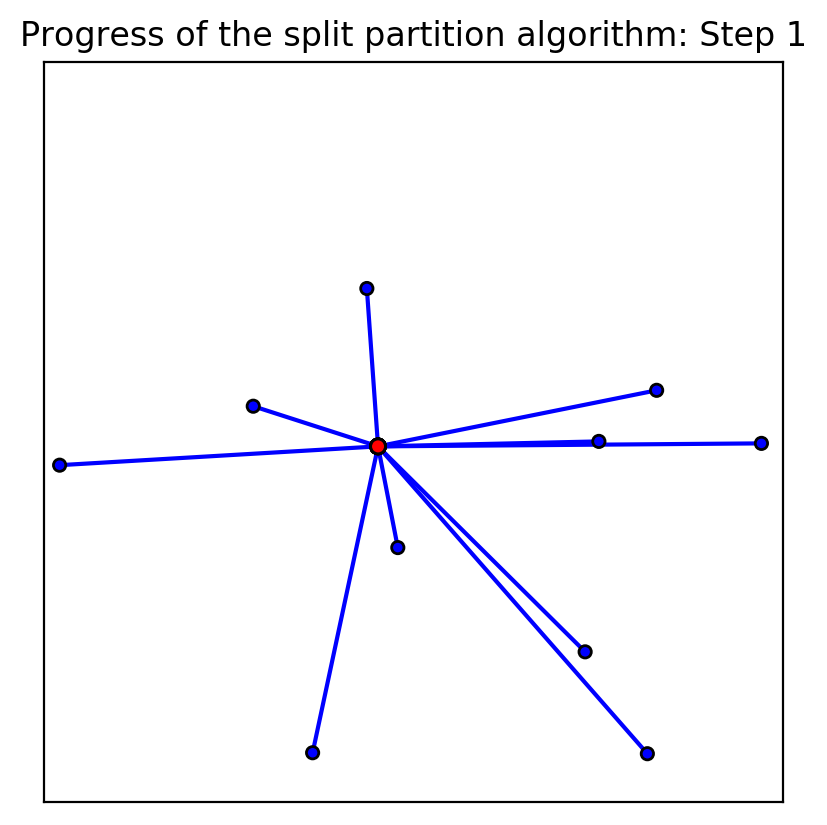
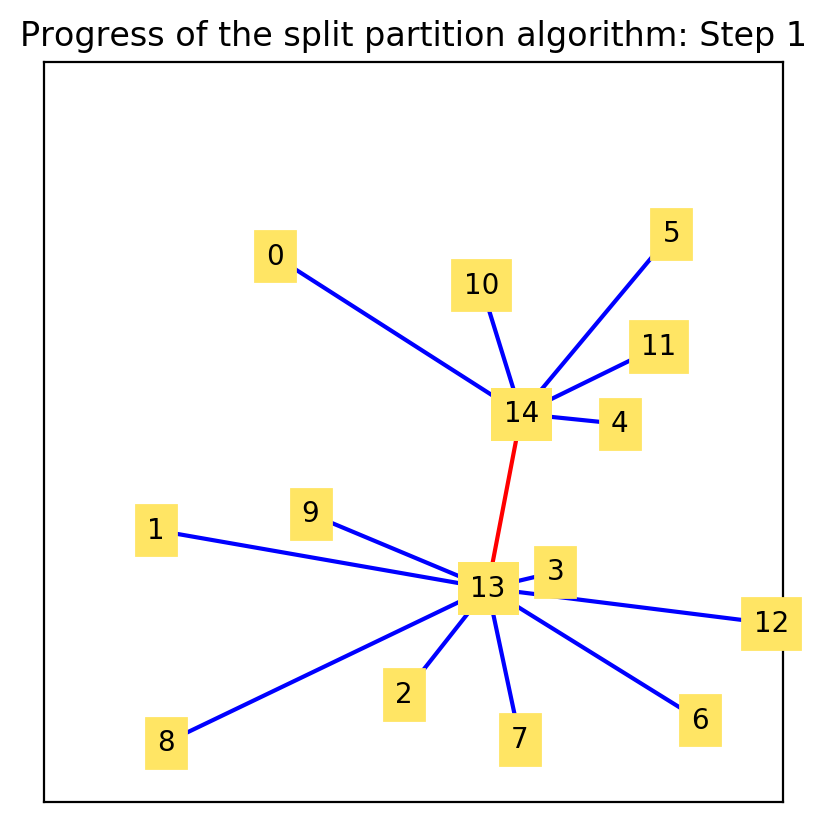
completed buggy implementation of split partition

diff --git a/src/lib/problem_one_horse_multiple_flies.py b/src/lib/problem_one_horse_multiple_flies.py
@@ -290,6 +290,7 @@ def algo_split_partition(sites, inithorseposn, phi, number_of_flies,\
     def same_side_on_line_as_point(line, refpt, querypt):
         """If a point is in one of the open half-planes and the other is 
            on the line, they are counted to be on the same side of the line """
+
         m, c = line
         [x0,y0], [x1,y1] = refpt, querypt
 
@@ -299,24 +300,21 @@ def algo_split_partition(sites, inithorseposn, phi, number_of_flies,\
               # half-planes determined by the line
             return False
 
-    def split_points_with_line( leafpts, spinept, line ):
+    def split_points_with_line( leafpts_info, spinept, line ):
         """ For a given bunch of points (the leafpts) and a reference point
             split the leafpoints into two sets. The first set returned consists 
             of points lies on the same side as that of the spinept. """
-        
-        spinept    = np.asarray(spinept)
-        leafpts    = map(np.asarray, leafpts)
-        ptsA, ptsB = [ ] , [ ] 
-        for pt in leafpts:
+        idxA, idxB     = [ ] , [ ] 
+        for r, g, pt in leafpts_info:
             if same_side_on_line_as_point(line, spinept, pt):
-                ptsA.append(pt)
+                idxA.append( (r,g)  )
             else:
-                ptsB.append(pt)
-        return ptsA, ptsB
+                idxB.append( (r,g) )
+        return idxA, idxB
+
 
     def get_center(points, branchpt, branchpt_weight):
         """ Get center of mass or fermat-weber center """
-
         assert(branchpt_weight > 0.0)
         points             = map(np.asarray, points)
         branchpt           = np.asarray(branchpt)
@@ -332,6 +330,16 @@ def algo_split_partition(sites, inithorseposn, phi, number_of_flies,\
         yc = yc/len(newpoints)
         return np.asarray([xc,yc])
  
+    def leaf_degree(G, nidx):
+        nbrs       = G[nidx]
+        leafdegree = 0
+        for i in nbrs:
+            if G.nodes[i]['type']  == 'leaf':
+               leafdegree += 1
+        return leaf_degree
+
+
+
     def draw_graph(G,itercounter):
         """ Draw the state of the split partition graph """
         fig, ax =  plt.subplots()
@@ -358,24 +366,23 @@ def algo_split_partition(sites, inithorseposn, phi, number_of_flies,\
             # Render node u
             #----------------    
             if G.nodes[u]['type'] == 'spine':
-                ax.add_patch(mpl.patches.Circle((px,py), radius=1.0/100, 
-                                          facecolor='red', edgecolor='black',zorder=2))
+                ax.add_patch(mpl.patches.Circle((px,py), radius=1.0/100, facecolor='red', edgecolor='black',zorder=2))
+                ax.text(px, py, str(u), horizontalalignment='center', verticalalignment='center', bbox=dict(facecolor='#ffe564', edgecolor = '#ffe564', alpha=1.0), zorder=3) 
             else :
-                ax.add_patch(mpl.patches.Circle((px,py), radius=1.0/120, 
-                                          facecolor='blue', edgecolor='black',zorder=2))
+                ax.add_patch(mpl.patches.Circle((px,py), radius=1.0/120, facecolor='blue', edgecolor='black',zorder=2))
+                ax.text(px, py, str(u), horizontalalignment='center', verticalalignment='center' , bbox=dict(facecolor='#ffe564',  edgecolor = '#ffe564', alpha=1.0), zorder=3) 
             #----------------    
             # Render node v
             #----------------    
             if G.nodes[v]['type'] == 'spine':
-                ax.add_patch(mpl.patches.Circle((qx,qy), radius=1.0/100, 
-                                          facecolor='red', edgecolor='black',zorder=2))
+                ax.add_patch(mpl.patches.Circle((qx,qy), radius=1.0/100, facecolor='red', edgecolor='black',zorder=2))
+                ax.text(qx, qy, str(v), horizontalalignment='center', verticalalignment='center', bbox=dict(facecolor='#ffe564',  edgecolor = '#ffe564',alpha=1.0), zorder=3)
             else :
-                ax.add_patch(mpl.patches.Circle((qx,qy), radius=1.0/120, 
-                                          facecolor='blue', edgecolor='black',zorder=2))
+                ax.add_patch(mpl.patches.Circle((qx,qy), radius=1.0/120, facecolor='blue', edgecolor='black',zorder=2))
+                ax.text(qx, qy, str(v), horizontalalignment='center', verticalalignment='center' , bbox=dict(facecolor='#ffe564', edgecolor = '#ffe564', alpha=1.0), zorder=3) 
 
         plt.savefig(filename,dpi=200,bbox_inches='tight')
-        plt.show()
-
+        plt.close('all')
 
     # Set algo-state and input-output files config
     import sys, datetime, os, errno
@@ -383,7 +390,7 @@ def algo_split_partition(sites, inithorseposn, phi, number_of_flies,\
     import itertools
     algo_name    = 'algo-split-partition'
     time_stamp   = datetime.datetime.now().strftime('Day-%Y-%m-%d_ClockTime-%H:%M:%S')
-    iter_counter = 1 
+    iter_counter = 0 
 
     if write_algo_states_to_disk_p or write_io_p:
         dir_name     = algo_name + '---' + time_stamp
@@ -419,28 +426,74 @@ def algo_split_partition(sites, inithorseposn, phi, number_of_flies,\
     # More high-degree nodes maybe added during the while loop.
     while high_degree_nodes :
 
+        print "\n------------------------------------\n",  "ITERATION NUMBER: ", iter_counter, "\n------------------------------------\n"
         print Fore.GREEN, "Split Partition Tree" , Style.RESET_ALL
         utils_algo.print_list(G.nodes(data=True))
         utils_algo.print_list(G.edges(data=True))
         print Fore.RED, " High Degree Nodes:  ", high_degree_nodes, Style.RESET_ALL
-        print "ITERATION NUMBER: ", iter_counter, "\n------------------------------------\n"
         draw_graph(G, iter_counter)
 
-        #================================ ALGORITHM CODE==================================
-        spinept       = G.nodes[high_degree_nodes[0]]['position']
-        leafpts       = G[high_degree_nodes[0]]
-        leafpts_coods = []
+        spinept_idx  = high_degree_nodes[-1]
+        spinept      = G.nodes[spinept_idx]['position']
+        leafpts      = G[spinept_idx]  ; print leafpts ; time.sleep(30)
+        leafpts_info = []
+        ctr          = 0
         for nidx in leafpts:
-            leafpts_coods.append(G.nodes[nidx]['position'])
-    
-        for ptpair in itertools.combinations(leafpts_coods, 2):
-            (p,q)        = ptpair
-            [m,c]        = get_line_between_two_points(p,q)
-            [ptsA, ptsB] = split_points_with_line( leafpts_coods, spinept, line=(m,c) )
+            leafpts_info.append( (ctr, nidx, G.nodes[nidx]['position']) )
+            ctr += 1
 
+        leafpts_coods      = [p for _, _, p in leafpts_info ]
+        idxA_opt, idxB_opt = [], [] 
+        wt_opt             = np.inf
 
-        # modify graph G here    
-        
+        for ptpair in itertools.combinations(leafpts_info, 2):
+            (pridx, pgidx, p) = ptpair[0]
+            (pridx, qgidx, q) = ptpair[1]
+            [m,c]             = get_line_between_two_points(p,q)
+            [idxA, idxB]      = split_points_with_line( leafpts_info, spinept, line=(m,c) )
+            center            = get_center([leafpts_coods[r] for (r,_) in idxB] , spinept, phi)
+
+            wt = 2.0 * sum ( [ np.linalg.norm(spinept-leafpts_coods[r]) for (r,_) in idxA  ] ) +\
+                 phi * np.linalg.norm(spinept-center)                                          +\
+                 2.0 * sum ( [ np.linalg.norm(center-leafpts_coods[r])  for (r,_) in idxB  ] )
+
+            #--------------------------
+            # Comparison code for opt
+            #--------------------------
+            if wt < wt_opt:
+                print Fore.GREEN, " Better Line Partition Found! ", Style.RESET_ALL
+                #print Fore.GREEN, " idxA = ", idxA, Style.RESET_ALL
+                #print Fore.GREEN, " idxB = ", idxB, Style.RESET_ALL
+                wt_opt             = wt
+                idxA_opt, idxB_opt = idxA, idxB
+                center_opt         = center
+
+        #-------------------------------------------
+        # Modify graph G after performing the split
+        #-------------------------------------------
+        # Delete edges 
+        for (_,g) in idxB_opt:
+            G.remove_edge(spinept_idx,g)
+
+        # Add a node
+        newnodeidx = G.number_of_nodes()
+        G.add_node(newnodeidx,type = 'spine', position = center_opt)
+
+        # Add edges
+        G.add_edge(newnodeidx, spinept_idx, weight=np.linalg.norm(spinept - center_opt))
+
+        for (r,g) in idxB_opt:
+            edgewt = np.linalg.norm(center_opt-leafpts_coods[r])
+            G.add_edge(g, newnodeidx, weight=edgewt)
+
+        #------------------------------------
+        # Modify the array highdegree nodes
+        #------------------------------------
+        if G.degree(spinept_idx) <= number_of_flies:
+            high_degree_nodes.remove(spinept_idx)
+            
+        if G.degree(newnodeidx) > number_of_flies:
+            high_degree_nodes.append(newnodeidx)
 
         #================================ ALGORITHM CODE==================================
         if write_algo_states_to_disk_p:
@@ -449,7 +502,6 @@ def algo_split_partition(sites, inithorseposn, phi, number_of_flies,\
             data = None
             utils_algo.write_to_yaml_file(data, dir_name=dir_name, file_name=algo_iter_state_file_name)
         iter_counter += 1
-        time.sleep(40)
 
     # Write input and output to file if \verb|write_io_p == True|
     if write_io_p:
